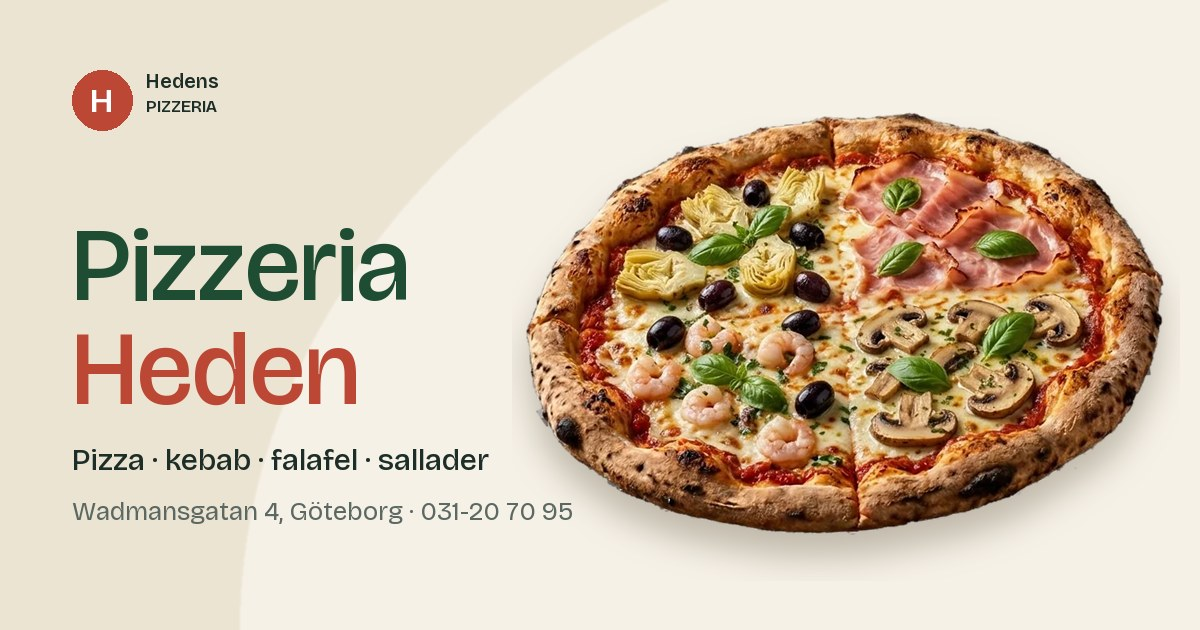
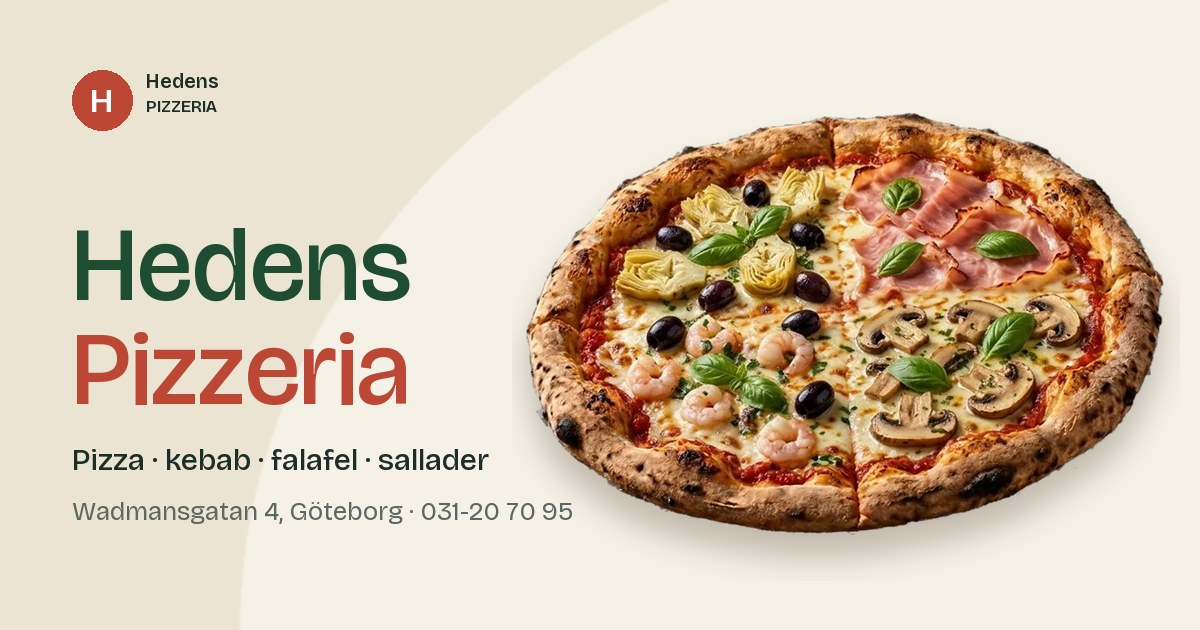
Rubriken på startsidan blir Hedens Pizzeria
Rubriken står på två rader, "Hedens" i grönt och "Pizzeria" i rött.
Delningsbilden, PRODUCT.md, DESIGN.md och CSS-kommentarerna följer med.

Changed region(s): [[0.0617, 0.5127, 0.3392, 0.6635], [0.0617, 0.3619, 0.3392, 0.4825]]

diff --git a/styles.css b/styles.css
@@ -251,7 +251,7 @@ h1, h2, h3 {
   padding: 38px 0 26px;
 }
 
-/* Sidrubriken: "Pizzeria Heden" och "Menyn" ska se exakt likadana ut.
+/* Sidrubriken: "Hedens Pizzeria" och "Menyn" ska se exakt likadana ut.
    .menu-hero får därför samma avstånd ovanför som .hero + .hero-copy (28 + 38 px). */
 .hero h1,
 .menu-hero h1 {
@@ -263,7 +263,7 @@ h1, h2, h3 {
   padding-top: 66px;
 }
 
-/* "Heden" i rubriken blir röd */
+/* "Pizzeria" i rubriken blir röd */
 .hero h1 em {
   font-style: normal;
   color: var(--tomato);

diff --git a/index.html b/index.html
@@ -68,7 +68,7 @@
     <section class="hero">
       <div class="hero-copy">
         <p class="eyebrow">Pizza, kebab, falafel och sallader</p>
-        <h1>Pizzeria <em>Heden</em></h1>
+        <h1>Hedens<br><em>Pizzeria</em></h1>
         <!-- Öppetstatus direkt under rubriken på mobilen (på datorn står den i snabbinfon) -->
         <a class="hero-status" href="#hitta-hit">
           <span id="hero-dot" class="status-dot" aria-hidden="true"></span>

diff --git a/DESIGN.md b/DESIGN.md
@@ -110,7 +110,7 @@ Tätheten är måttlig: luftig i toppen där besökaren bestämmer sig, tät och
 Varm italiensk kökspalett: tomat, oliv och mjöl, med dämpade jordtoner för korten.
 
 ### Primary
-- **San Marzano** (#bc4734): knappar, priser, rätternas nummer, textlänkar och "Heden" i rubriken. Allt som betyder "gör något" eller "kostar något".
+- **San Marzano** (#bc4734): knappar, priser, rätternas nummer, textlänkar och "Pizzeria" i rubriken. Allt som betyder "gör något" eller "kostar något".
 - **San Marzano mörk** (#9d3829): hovring på knappar och länkar som ligger på svepet.
 
 ### Secondary
@@ -140,7 +140,7 @@ Varm italiensk kökspalett: tomat, oliv och mjöl, med dämpade jordtoner för k
 **Character:** En vänlig grotesk med lite egen personlighet i de stora graderna, som en handmålad skylt; neutral och lättläst i brödtext.
 
 ### Hierarchy
-- **Display** (600, clamp(62px, 7vw, 93px), 0.98; 68px på mobil): "Pizzeria Heden" och "Menyn". Bara en per sida.
+- **Display** (600, clamp(62px, 7vw, 93px), 0.98; 68px på mobil): "Hedens Pizzeria" (två rader) och "Menyn". Bara en per sida.
 - **Headline** (600, 45px, 0.98): sektionsrubriker, även på mobil.
 - **Title** (600, 28px, 1): menykort, öppettider och menygrupper.
 - **Dish** (600, 22px, 1.25): rätternas namn i menyn.

diff --git a/PRODUCT.md b/PRODUCT.md
@@ -57,7 +57,7 @@ A neighbourhood pizzeria on Heden in central Göteborg. It has a long, numbered 
 
 ## Brand Commitments
 
-- **Name:** "Hedens Pizzeria". The start page headline is "Pizzeria Heden", chosen by the site's author.
+- **Name:** "Hedens Pizzeria", everywhere including the start page headline (set on two lines: "Hedens" / "Pizzeria").
 - **Contact details:** phone 031-20 70 95 and address Wadmansgatan 4, 412 53 Göteborg must stay exactly as given.
 - **Menu:** dish numbers and names as transcribed from the restaurant's own menu (with spelling corrected, e.g. Margherita, Quattro Stagioni, Sorrento).
 
